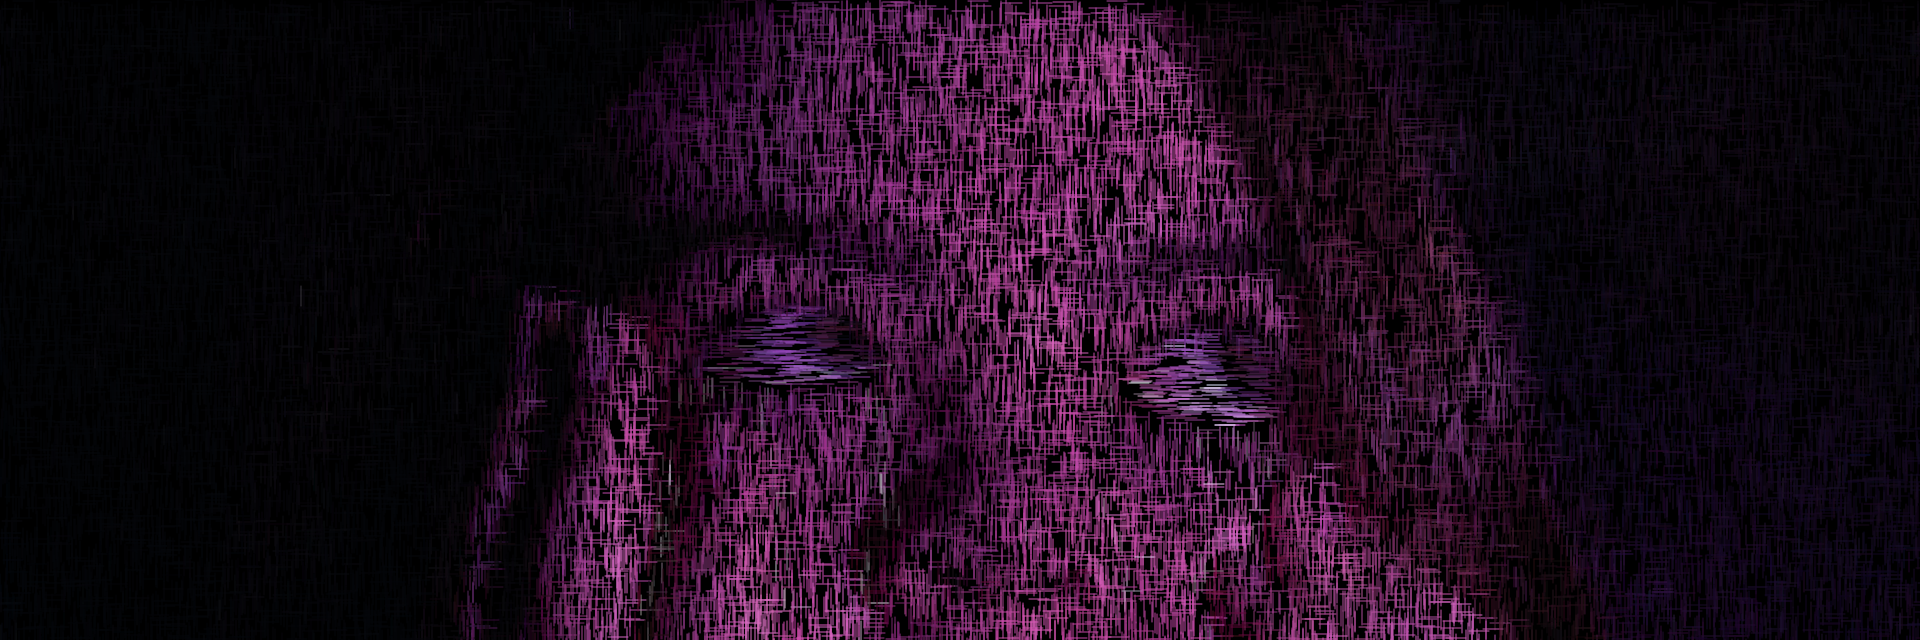
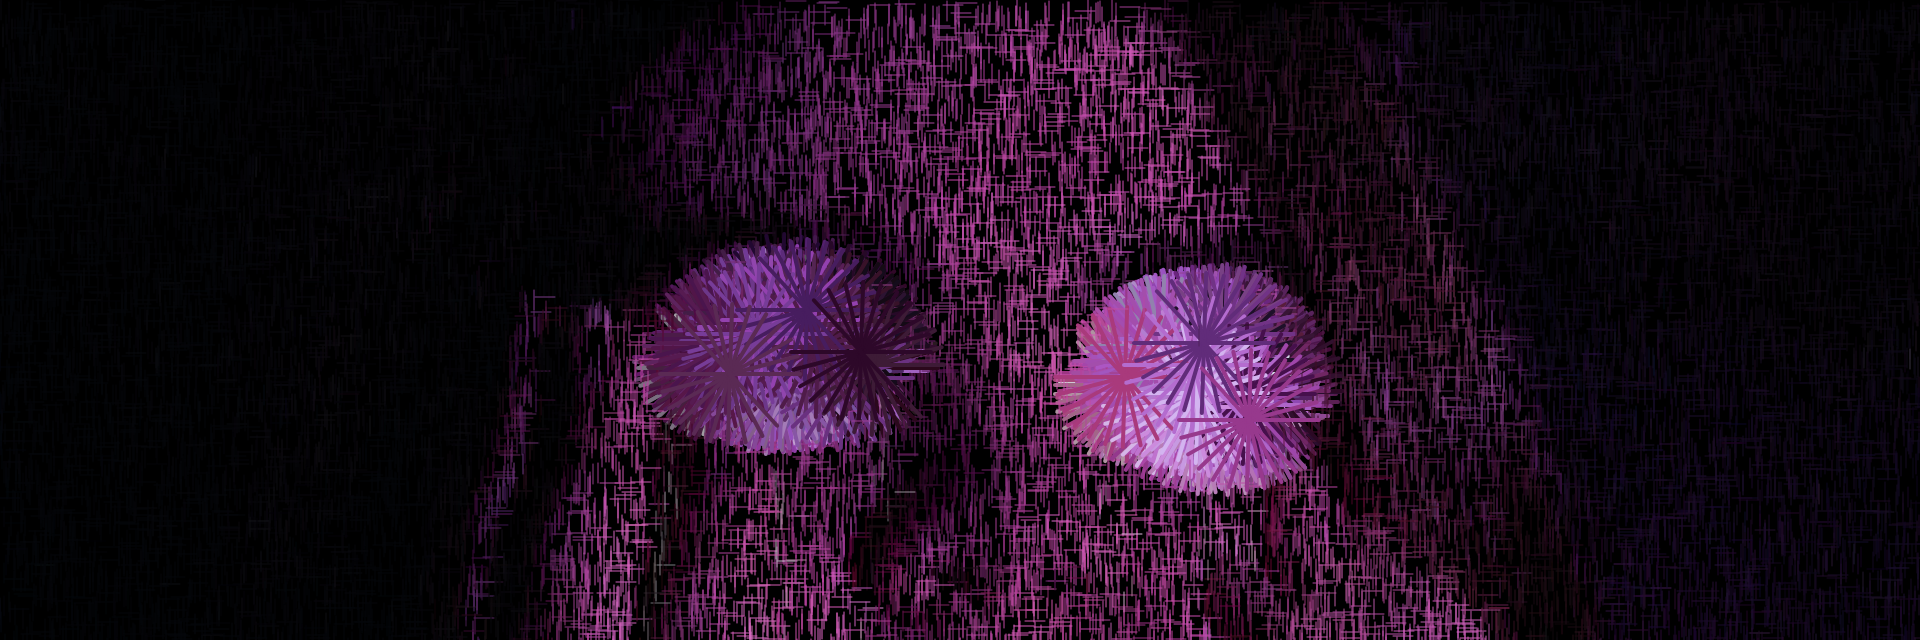
star eyes function

diff --git a/sketch.js b/sketch.js
@@ -26,7 +26,7 @@ function setup() {
 function draw() {
 
   //2000 elements
-  for (let i = 0; i < 3000; i++) {
+  for (let i = 0; i < 4000; i++) {
     let x = floor(random(sourceImg.width));
     let y = floor(random(sourceImg.height));
     let pix = sourceImg.get(x, y);
@@ -37,40 +37,40 @@ function draw() {
     let pointSize = 20;
     let dice = random(1, 6);
 
-    if (mask[0] > 128) {
-      line(x, y, x + pointSize, y);
-    }
+    if (mask[0] > 120) {
+      //line(x, y, x + pointSize, y);
+      drawStar(x, y, 70);
 
-
-    else {
-
-    if (dice > 5) {
-      line(x, y, x + pointSize, y); //horizontal windy
     } else {
-      line(x, y, x, y + pointSize); //vertical rain
+
+      if (dice > 5) {
+        line(x, y, x + pointSize, y); //horizontal windy
+      } else {
+        line(x, y, x, y + pointSize); //vertical rain
+      }
     }
-}
-
-
-
-    // if(mask[0] > 128) {
-    //   let pointSize = 70;
-    //   ellipse(x, y, pointSize, pointSize);
-    // }
-    // else {
-    //   let pointSize = 20;
-    //   rect(x, y, pointSize, pointSize);
-    // }
   }
 
   //runs 10 different times
   renderCounter = renderCounter + 1;
-  if (renderCounter > 10) {
+  if (renderCounter > 5) {
     console.log("Done!")
     noLoop();
     // uncomment this to save the result
-    //saveArtworkImage(outputFile);
+    // saveArtworkImage(outputFile);
   }
+}
+
+function drawStar(x, y, size){
+
+push();
+strokeWeight(4);
+translate(x,y);
+  for(var i =0; i<10; i++){
+      line(size, 0, -size,0);
+      rotate(360/5);
+  }
+pop();
 }
 
 function keyTyped() {

diff --git a/README.md b/README.md
@@ -1,5 +1,5 @@
 ## Creative Coding 2: Custom Pixel
 
-Created a quick hatch look which I think looks super cool with my colour scheme. Today I am also looking at thinking of themes that are more specific to me. I want a theme that will make an impact on the community. 
+Working through the in-class tutorials. Created a star eyes function where i made huge stars in the mask. 
 
 The images above are photos of my friend from an assignment from last year in the studio algorithmically processed with a lightly modified version of the [p5.js Pointillism example](https://p5js.org/examples/image-pointillism.html). The masks for each photo highlight various objects.
